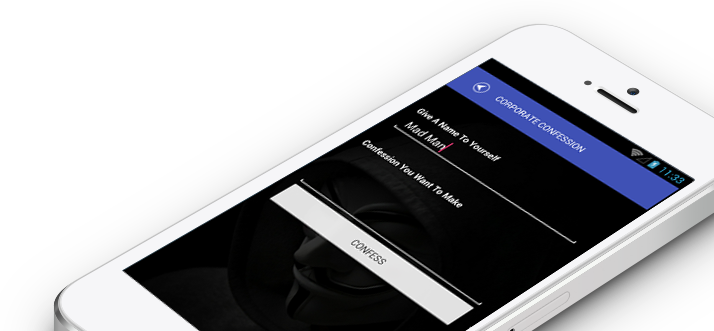
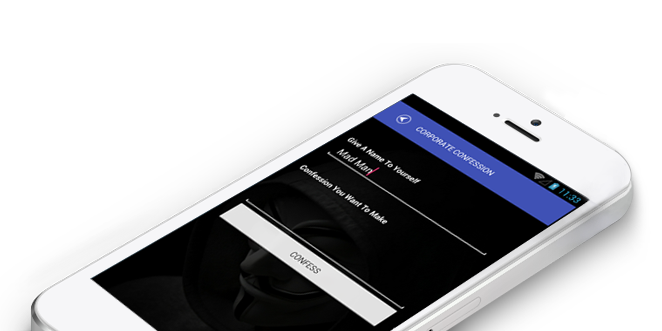
changed css

diff --git a/assets/css/confession.css b/assets/css/confession.css
@@ -4,6 +4,9 @@ a{
 option {
     color: #232424;
 }
+/*div#bs-example-navbar-collapse-1 {
+     text-align: center !important; 
+}*/
 /*.mobo-pic{
 	width:228px;
 	height: 446px;
@@ -57,11 +60,11 @@ div#load_screen > div#loading .fa-spinner{
 }*/
 .drop-search img {
     width: 8%;
-    height: 20px;
+    height: 35px;
     margin-top: 0%;
 }
 .navbar-brand .logo{
-	width:65%;
+	width:30%;
 }
 hr {
     margin-top: 0px !important;
@@ -94,12 +97,35 @@ hr {
 @media all and (max-width: 920px) {
 
 	header .navbar-default ul.navbar-nav li a{padding: 7px 13px}
+	.tp-caption img {
+    background: transparent;
+    -ms-filter: "progid:DXImageTransform.Microsoft.gradient(startColorstr=#00FFFFFF,endColorstr=#00FFFFFF)";
+    filter: progid:DXImageTransform.Microsoft.gradient(startColorstr=#00FFFFFF,endColorstr=#00FFFFFF);
+    zoom: 1;
+    width: 55%;
+    margin-bottom: -10px;
+    margin-top: 100px;
+}
+header .navbar-default.scrolled .navbar-brand img {
+    width: auto;
+    max-height: 75px;
+}
 
+}
+@media (min-width: 768px){
+.navbar>.container .navbar-brand, .navbar>.container-fluid .navbar-brand {
+     margin-left: 0px !important; 
+}
 }
 
 @media only screen and (min-width: 767px) and (max-width: 1023px){
 
-.navbar-brand .logo{width:60%;}
+.navbar-brand .logo{width: 25%;}
+header .navbar-default ul.navbar-nav {
+    /* padding-top: 55px; */
+    padding-top: 0px;
+    width: 75% !important;
+}
 /*header .navbar-default ul.navbar-nav {padding-top: 0px !important;}*/
 .col-sm-4.get-app-icon {
     margin-left: 45px;
@@ -112,7 +138,7 @@ hr {
 }
 .drop-search img {
     width: 9%;
-    height: 20px;
+    height: 30px;
     margin-top: 1%;
 }
 .tp-caption img {
@@ -127,6 +153,7 @@ hr {
     color: #ffffff;
     border-color: #ffffff;
     margin-top: -3px;
+    margin-left: -7px;
 }
 .trans-img img {
     width: 157px;
@@ -189,7 +216,7 @@ h3{font-size: 18px;}
 }
 .drop-search img {
     width: 8%;
-    height: 20px;
+    height: 25px;
     margin-top: 2%;
 }
 .drop-option {

diff --git a/assets/css/styles.css b/assets/css/styles.css
@@ -53,7 +53,9 @@ header .navbar-default {
   transition: all 0.25s ease-in-out;
 }
 header .navbar-default ul.navbar-nav {
-  padding-top: 55px;
+ /* padding-top: 55px;*/ /*edited on 5 may*/
+     padding-top: 0px; /* added on 5 may*/
+     width: 66%; /* added on 5 may*/
 }
 header .navbar-default ul.navbar-nav li a {
   text-transform: capitalize;
@@ -138,6 +140,7 @@ header .navbar-default.scrolled .navbar-brand {
 header .navbar-default.scrolled .navbar-brand img {
   width: auto;
   max-height: 33px;
+  margin-right: 23px;
 }
 header .navbar-default.scrolled ul.navbar-nav {
   padding-top: 15px;
@@ -831,6 +834,8 @@ header .navbar-default.scrolled ul.navbar-nav li a:hover:after {
 }
 header .navbar-default.scrolled .navbar-brand {
   background: #336799;
+  width:80%; /*Added on 5 may*/
+  margin-right: 20px;
 }
 section .section-heading .divider:after {
   background: #66cdcc;

diff --git a/assets/js/rs-plugin/css/settings.css b/assets/js/rs-plugin/css/settings.css
@@ -1767,6 +1767,8 @@ background: transparent;
 -ms-filter: "progid:DXImageTransform.Microsoft.gradient(startColorstr=#00FFFFFF,endColorstr=#00FFFFFF)";
 filter: progid:DXImageTransform.Microsoft.gradient(startColorstr=#00FFFFFF,endColorstr=#00FFFFFF);
 zoom: 1;
+width: 100%;
+margin-bottom: -10px;
 }
 
 

diff --git a/application/views/index.php b/application/views/index.php
@@ -103,7 +103,7 @@
 
         
         <!--RevSlider-->
-        <div class="tp-banner-container">
+        <div class="tp-banner-container container">
             <!-- <div class="tp-banner" > -->
                 <ul>
                     <!-- SLIDE  -->
@@ -147,7 +147,7 @@
                                     Confession
                                 </div>
                                 <div class="row">
-                                    <div class="col-xs-12 col-sm-4 col-md-4 wow bounceInUp">
+                                    <div class="col-xs-12 col-sm-4 col-md-5 wow bounceInUp">
                                         <div class="tp-caption sfb hidden-xs" data-x="550" data-y="center" data-hoffset="0" data-voffset="85" data-speed="1000" data-start="1700" data-easing="Power4.easeOut">
                                              <a href="#about" class="btn btn-primary inverse btn-lg">LEARN MORE</a>
                                         </div>
@@ -206,11 +206,7 @@
                                 
 
                             </div> -->
-                                
-                                
-                                
-                               
-                                    </div>
+                            </div>
                             
                         </div>
                         
@@ -713,7 +709,7 @@
 
 
         <section id="getApp">
-            <div class="container-fluid">
+            <div class="container-fluid container">
                 <div class="section-heading inverse scrollpoint sp-effect3">
                     <h1>Get App</h1>
                     <div class="divider"></div>
@@ -757,10 +753,10 @@
                 <div class="social">
                     <a href="https://mail.google.com/mail/?view=cm&fs=1&tf=1&to=hello@tier5.us" target="_blank" class="scrollpoint sp-effect3"><i class="fa fa-envelope fa-lg"></i></a>
                     <a href="https://www.facebook.com/tier5development/" target="_blank" class="scrollpoint sp-effect3"><i class="fa fa-facebook fa-lg"></i></a>
-                    <a class="scrollpoint sp-effect3"><i class="fa fa-skype fa-lg"></i></a>
+                    <a class="scrollpoint sp-effect3"><i class="fa fa-linkedin fa-lg"></i></a>
                 </div>
                 <div class="rights">
-                    <p>Copyright © 2015 Tier5. All Rights Reserved.</p>
+                    <p>Copyright © 2016 Tier5. All Rights Reserved.</p>
                     
                 </div>
             </div>

diff --git a/application/config/database.php b/application/config/database.php
@@ -77,7 +77,7 @@ $db['default'] = array(
 	'dsn'	=> '',
 	'hostname' => 'localhost',
 	'username' => 'root',
-	'password' => 'tier5',
+	'password' => 'Zxcvbnm1@',
 	'database' => 'confessionapp',
 	'dbdriver' => 'mysqli',
 	'dbprefix' => '',
